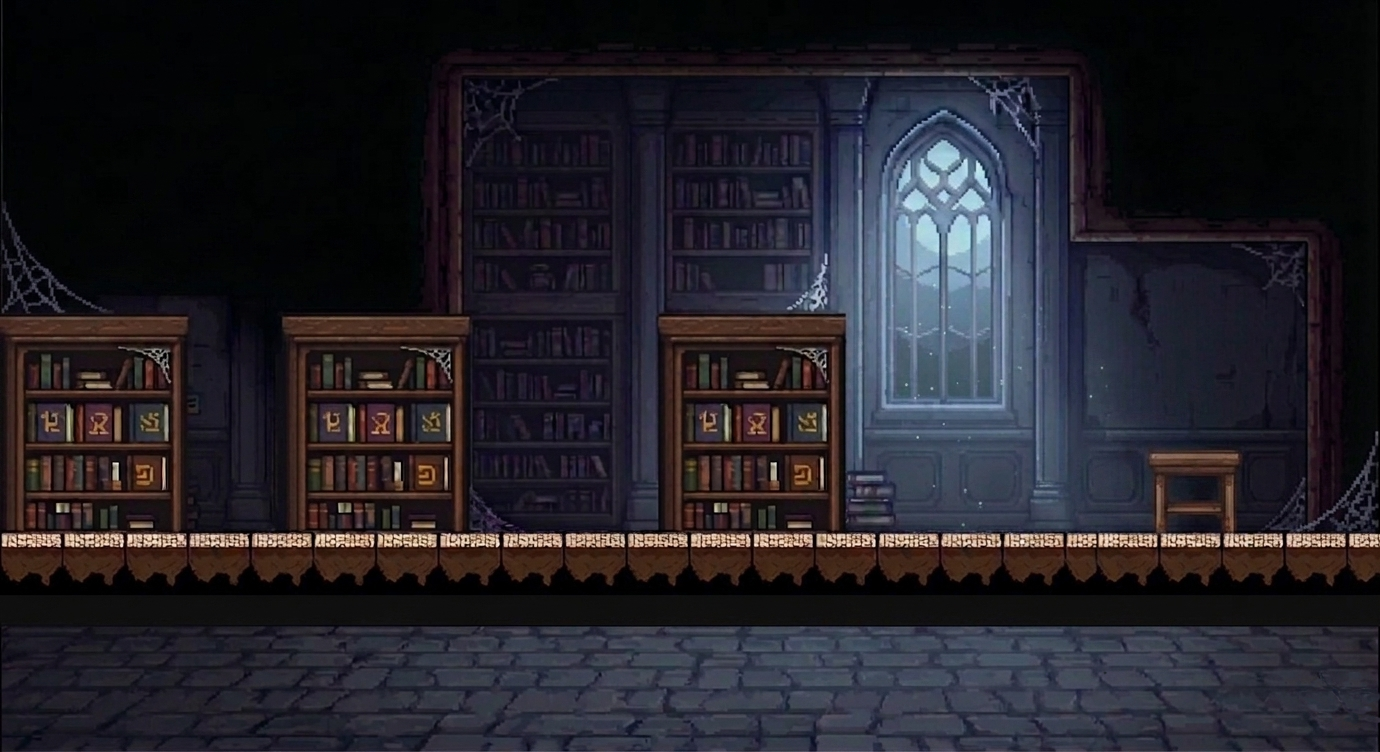
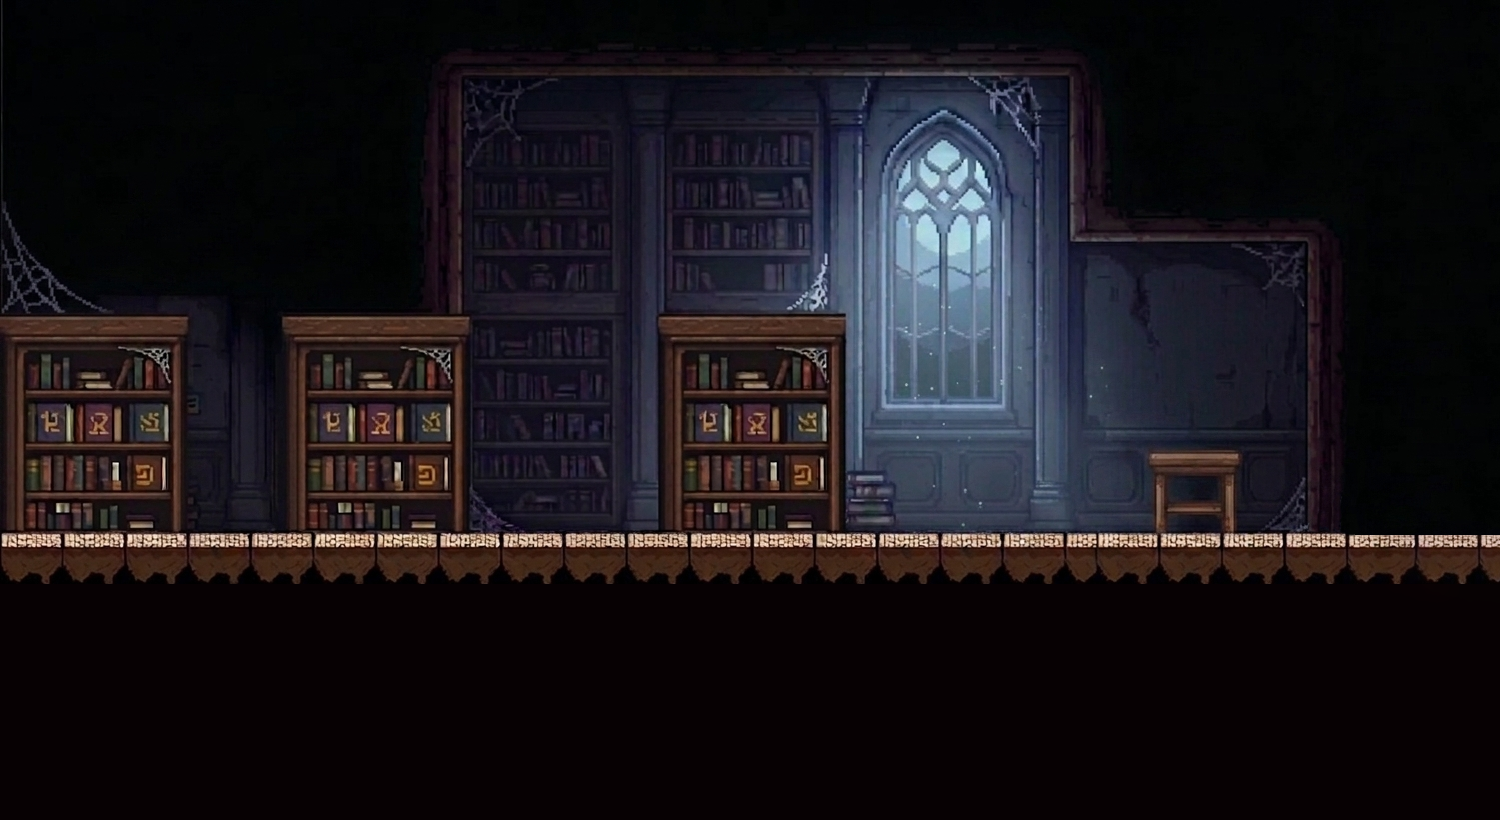
updated map

diff --git a/ch1_lvl2.py b/ch1_lvl2.py
@@ -275,7 +275,7 @@ interactive_objects = [
         prompt="I found a letter M."
     ),
     InteractiveObject(
-        x=int(1250 * scale_factor),
+        x=int(900 * scale_factor),
         y=int(floor_y - int(120 * scale_factor)),
         width=int(5 * scale_factor),
         height=int(40 * scale_factor),
@@ -284,7 +284,7 @@ interactive_objects = [
         prompt="I found a letter C."
     ),
     InteractiveObject(
-        x=int(1500 * scale_factor),
+        x=int(1400 * scale_factor),
         y=int(floor_y - int(100 * scale_factor)),
         width=int(5 * scale_factor),
         height=int(40 * scale_factor),
@@ -293,12 +293,25 @@ interactive_objects = [
         prompt="Oh, there's something on the floor. I found a letter O."
     ),
 ]
+
+interactive_objects.append(
+    InteractiveObject(
+        x=int(MAP_WIDTH * 0.77),  # right side
+        y=int(floor_y - int(BASE_HEIGHT * 0.25)),  # center vertically above floor
+        width=int(80 * scale_factor),
+        height=int(80 * scale_factor),
+        has_manuscript=True,
+        prompt="A mysterious manuscript lies here...",
+        image_file=MANUSCRIPT_FILE
+    )
+)
+
 # --- Adaptive Player Initialization ---
 player = Player(
     floor_y,
     x=int(BASE_WIDTH * 0.10),
-    y=int(BASE_HEIGHT * 0.53),
-    scale=(BASE_HEIGHT / 1080) * 1.2   # adaptive + manual multiplier
+    y=int(BASE_HEIGHT * 0.48),
+    scale=(BASE_HEIGHT / 1080) * 1.1   # adaptive + manual multiplier
 )
 
 camera = Camera(MAP_WIDTH, MAP_HEIGHT, BASE_WIDTH, BASE_HEIGHT)

diff --git a/ch1_lvl1.py b/ch1_lvl1.py
@@ -275,7 +275,7 @@ interactive_objects = [
         prompt="I found a letter M."
     ),
     InteractiveObject(
-        x=int(1250 * scale_factor),
+        x=int(900 * scale_factor),
         y=int(floor_y - int(120 * scale_factor)),
         width=int(5 * scale_factor),
         height=int(40 * scale_factor),
@@ -284,7 +284,7 @@ interactive_objects = [
         prompt="I found a letter C."
     ),
     InteractiveObject(
-        x=int(1500 * scale_factor),
+        x=int(1400 * scale_factor),
         y=int(floor_y - int(100 * scale_factor)),
         width=int(5 * scale_factor),
         height=int(40 * scale_factor),
@@ -296,8 +296,8 @@ interactive_objects = [
 
 interactive_objects.append(
     InteractiveObject(
-        x=int(MAP_WIDTH * 0.845),  # right side
-        y=int(floor_y - int(BASE_HEIGHT * 0.20)),  # center vertically above floor
+        x=int(MAP_WIDTH * 0.77),  # right side
+        y=int(floor_y - int(BASE_HEIGHT * 0.25)),  # center vertically above floor
         width=int(80 * scale_factor),
         height=int(80 * scale_factor),
         has_manuscript=True,
@@ -310,8 +310,8 @@ interactive_objects.append(
 player = Player(
     floor_y,
     x=int(BASE_WIDTH * 0.10),
-    y=int(BASE_HEIGHT * 0.53),
-    scale=(BASE_HEIGHT / 1080) * 1.2   # adaptive + manual multiplier
+    y=int(BASE_HEIGHT * 0.48),
+    scale=(BASE_HEIGHT / 1080) * 1.1   # adaptive + manual multiplier
 )
 
 camera = Camera(MAP_WIDTH, MAP_HEIGHT, BASE_WIDTH, BASE_HEIGHT)
